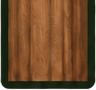
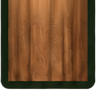
Skil informasjon frå dagknappar i Duldord

diff --git a/duldord/css/tursti.css b/duldord/css/tursti.css
@@ -112,9 +112,24 @@
   top: 10%;
   bottom: -20px;
   width: var(--dd-post-width);
-  background: url('../assets/stolpe-topp.png?v=2') center top / 100% auto no-repeat,
-              url('../assets/stolpe-botn.png?v=2') center bottom / 100% auto no-repeat,
-              url('../assets/stolpe-midt.png?v=2') center 150px / 100% auto repeat-y;
+  background: url('../assets/stolpe-topp.png?v=3') center top / 100% auto no-repeat,
+              url('../assets/stolpe-botn.png?v=3') center bottom / 100% auto no-repeat;
+}
+.dd-header-post::before,
+.dd-step-rail::before {
+  content: '';
+  position: absolute;
+  right: 0;
+  left: 0;
+  background: url('../assets/stolpe-midt.png?v=3') center top / 100% auto repeat-y;
+}
+.dd-header-post::before {
+  top: calc(var(--dd-post-width) * 1.5625);
+  bottom: calc(var(--dd-post-width) * .9375);
+}
+.dd-step-rail::before {
+  top: calc(var(--dd-rail-width) * 1.5625);
+  bottom: calc(var(--dd-rail-width) * .9375);
 }
 .dd-header-post-left { left: calc(var(--dd-sign-height) * .218 - var(--dd-post-width) / 2); }
 .dd-header-post-right { right: calc(var(--dd-sign-height) * .218 - var(--dd-post-width) / 2); }
@@ -173,6 +188,19 @@
   z-index: -1;
   background: url('../assets/informasjonspil.png?v=2') center / contain no-repeat;
 }
+.dd-daydate { padding-left: 30px; }
+.dd-info-mark {
+  position: absolute;
+  left: 12px;
+  display: grid;
+  place-items: center;
+  width: 21px;
+  height: 21px;
+  border: 2px solid #fff9e9;
+  border-radius: 50%;
+  color: #fff9e9;
+  font: 900 .78rem/1 Georgia, serif;
+}
 .dd-next-signpost,
 .dd-previous-signpost {
   position: absolute;
@@ -181,6 +209,8 @@
   width: 175px;
   font-size: .78rem;
   cursor: pointer;
+  filter: drop-shadow(0 4px 0 #142820);
+  transition: filter .12s ease, transform .12s ease;
 }
 .dd-next-signpost {
   left: calc((100% - min(100%, 490px)) / 2 + var(--dd-sign-height) * .218);
@@ -193,10 +223,21 @@
   transform: translateX(50%);
 }
 .dd-previous-signpost::before { transform: scaleX(-1); }
+.dd-nav-arrow {
+  display: grid;
+  place-items: center;
+  width: 22px;
+  height: 22px;
+  margin: 0 5px;
+  border: 2px solid #fff9e9;
+  border-radius: 50%;
+  font: 900 1rem/1 system-ui, sans-serif;
+}
+.dd-next-signpost .dd-nav-arrow { order: 2; }
 .dd-next-signpost[hidden],
 .dd-previous-signpost[hidden] { display: none; }
 .dd-next-signpost:hover,
-.dd-previous-signpost:hover { filter: brightness(1.1); }
+.dd-previous-signpost:hover { filter: brightness(1.12) drop-shadow(0 5px 0 #142820); }
 .dd-next-signpost:active { transform: translateX(-50%) scale(.97); }
 .dd-previous-signpost:active { transform: translateX(50%) scale(.97); }
 .dd-next-signpost:focus-visible,
@@ -258,16 +299,15 @@
   width: fit-content;
   margin: 0 auto;
 }
-.dd-board::before {
-  content: '';
+.dd-step-rail {
+  --dd-rail-width: 13px;
   position: absolute;
   top: 2px;
   bottom: 2px;
   left: -44px;
-  width: 13px;
-  background: url('../assets/stolpe-topp.png?v=2') center top / 100% auto no-repeat,
-              url('../assets/stolpe-botn.png?v=2') center bottom / 100% auto no-repeat,
-              url('../assets/stolpe-midt.png?v=2') center 150px / 100% auto repeat-y;
+  width: var(--dd-rail-width);
+  background: url('../assets/stolpe-topp.png?v=3') center top / 100% auto no-repeat,
+              url('../assets/stolpe-botn.png?v=3') center bottom / 100% auto no-repeat;
 }
 .dd-row { position: relative; }
 .dd-step-sign {
@@ -485,14 +525,15 @@
   .dd-layout { gap: 10px; }
   .dd-board-stage { padding-top: 5px; margin-top: -25px; }
   .dd-day-signpost { left: calc(var(--dd-sign-height) * .218); top: 74%; width: 158px; height: 58px; }
-  .dd-daydate { padding-right: 12px; font-size: .68rem; }
+  .dd-daydate { padding-right: 8px; padding-left: 25px; font-size: .68rem; }
+  .dd-info-mark { left: 9px; width: 17px; height: 17px; font-size: .65rem; }
   .dd-next-signpost,
   .dd-previous-signpost { top: calc(5px + var(--dd-sign-height) + 2px); width: 142px; font-size: .64rem; }
   .dd-next-signpost { padding-right: 12px; }
   .dd-previous-signpost { padding-left: 12px; }
   .dd-board-frame { padding: 25px 6px 12px 39px; border-width: 4px; }
   .dd-board { --dd-size: min(54px, calc((100vw - 105px - 4 * var(--dd-gap)) / 5)); }
-  .dd-board::before { left: -28px; width: 10px; }
+  .dd-step-rail { --dd-rail-width: 10px; left: -28px; }
   .dd-step-sign { right: calc(100% + 8px); width: 29px; height: 19px; font-size: .72rem; }
   .dd-keyboard-frame { padding: 10px 6px; margin-top: 10px; border-width: 4px; }
   .dd-keyrow { gap: 3px; }

diff --git a/duldord/index.html b/duldord/index.html
@@ -9,7 +9,7 @@
     <link rel="apple-touch-icon" href="/_resources/vyrde-ikon-180.png">
 <link rel="stylesheet" href="../css/neobrutalisme.css">
 <link rel="stylesheet" href="css/style.css?v=3">
-<link rel="stylesheet" href="css/tursti.css?v=12">
+<link rel="stylesheet" href="css/tursti.css?v=13">
 <script src="../js/neo-header.js" defer></script>
 </head>
 <body class="dd-page" data-light-theme="classic" data-dark-theme="space" data-theme="classic">
@@ -60,11 +60,11 @@
               </div>
               <span class="dd-daynum" id="dayNum"></span>
             </div>
-            <div class="dd-day-signpost"><span class="dd-daydate" id="dayDate"></span></div>
+            <div class="dd-day-signpost"><span class="dd-daydate" id="dayDate"><span class="dd-info-mark" aria-hidden="true">i</span><span id="dayDateLabel"></span></span></div>
           </div>
         </section>
-        <button class="dd-next-signpost" id="nextDayBtn" type="button" aria-label="Gå éin dag fram" hidden><span>Seinare ord</span></button>
-        <button class="dd-previous-signpost" id="previousDayBtn" type="button" aria-label="Gå éin dag attende" hidden><span>Tidlegare ord</span></button>
+        <button class="dd-next-signpost" id="nextDayBtn" type="button" aria-label="Gå éin dag fram" hidden><span class="dd-nav-arrow" aria-hidden="true">→</span><span>Seinare ord</span></button>
+        <button class="dd-previous-signpost" id="previousDayBtn" type="button" aria-label="Gå éin dag attende" hidden><span class="dd-nav-arrow" aria-hidden="true">←</span><span>Tidlegare ord</span></button>
         <div class="dd-board-frame">
           <div class="dd-board" id="board" role="group" aria-label="Gjettebrett"></div>
         </div>
@@ -134,11 +134,11 @@
 <script src="js/state.js?v=1"></script>
 <script src="js/storage.js?v=1"></script>
 <script src="js/dictionary.js?v=1"></script>
-<script src="js/board.js?v=2"></script>
+<script src="js/board.js?v=3"></script>
 <script src="js/keyboard.js?v=1"></script>
 <script src="js/stats.js?v=1"></script>
 <script src="js/archive.js?v=1"></script>
-<script src="js/game.js?v=5"></script>
+<script src="js/game.js?v=6"></script>
 
 </body>
 </html>

diff --git a/duldord/js/game.js b/duldord/js/game.js
@@ -54,10 +54,10 @@
     const daysAgo = state.todayIndex - state.dayIndex;
     el.dayNum.textContent = `Dag ${state.dayIndex + 1}`;
     el.dayNum.classList.toggle('dd-daynum-archive', !isToday);
-    if (daysAgo === 0) el.dayDate.textContent = 'Dagens ord';
-    else if (daysAgo === 1) el.dayDate.textContent = 'Gårsdagens ord';
-    else if (daysAgo === 2) el.dayDate.textContent = 'Forgårsdagens ord';
-    else el.dayDate.textContent = S.formatDate(S.dateForIndex(state.dayIndex));
+    if (daysAgo === 0) el.dayDateLabel.textContent = 'Dagens ord';
+    else if (daysAgo === 1) el.dayDateLabel.textContent = 'Gårsdagens ord';
+    else if (daysAgo === 2) el.dayDateLabel.textContent = 'Forgårsdagens ord';
+    else el.dayDateLabel.textContent = S.formatDate(S.dateForIndex(state.dayIndex));
     el.previousDayBtn.hidden = state.dayIndex <= 0;
     const latestAvailableIndex = Math.min(state.todayIndex, S.wordCount() - 1);
     el.nextDayBtn.hidden = state.dayIndex >= latestAvailableIndex;
@@ -199,7 +199,7 @@
 
   // ── oppstart ─────────────────────────────────────────────────────────────
   function cacheElements() {
-    ['hero', 'dayNum', 'dayDate', 'nextDayBtn', 'previousDayBtn', 'message', 'board', 'keyboard', 'footnote',
+    ['hero', 'dayNum', 'dayDate', 'dayDateLabel', 'nextDayBtn', 'previousDayBtn', 'message', 'board', 'keyboard', 'footnote',
       'archiveBtn', 'statsBtn', 'helpBtn', 'shareBtn', 'shareLabel', 'shareWrap',
       'archiveGrid', 'helpOverlay', 'statsOverlay', 'archiveOverlay']
       .forEach(id => { el[id] = document.getElementById(id); });

diff --git a/duldord/js/board.js b/duldord/js/board.js
@@ -14,6 +14,11 @@
     boardEl.textContent = '';
     rows.length = 0;
 
+    const stepRail = document.createElement('span');
+    stepRail.className = 'dd-step-rail';
+    stepRail.setAttribute('aria-hidden', 'true');
+    boardEl.appendChild(stepRail);
+
     for (let r = 0; r < MAX_GUESSES; r++) {
       const row = document.createElement('div');
       row.className = 'dd-row';

diff --git a/CHANGELOG.md b/CHANGELOG.md
@@ -8,7 +8,7 @@ Format: [Keep a Changelog](https://keepachangelog.com/), datoar i ISO 8601.
 ### Endra
 - **Duldord har fått ei ny turstidrakt.** Eit lokalt lagra skogsbilete, heile treplankar med spikrar over stolpane, treskilt som kan vekse i breidda og høgda, biletlaga piler for dag og steg, og mjukt avrunda spelruter og tastar gjer ordspelet til ein liten tur gjennom seks freistnader. Bokstavrutene og tastane er utan slagskugge. Utforminga tilpassar seg både mobil og brei skjerm, og spel, arkiv og statistikk fungerer som før.
 - **Skilta er skjerpa og samla rundt spelebrettet.** Eit kortare og høgare hovudskilt står på to stolpar bak ramma, med dagnummeret på same planke. Dagens ord peikar svakt nedover på ei spikarfri trepil med stolpe bak ramma. Stegpilene held original proporsjon, og infoskiltet har tynnare omriss utan unødig overskrift. Arkiv, statistikk og hjelp ligg på infoskiltet. Dei vanlege boksane har ikkje lenger tjukk slagskugge.
-- **Dagsskifta har fått eigne vegvisarar.** Biletgenererte, saumlaust repeterbare trestolpar går att både bak toppskiltet og langs talpilene. Dagsskiltet står midt på venstre stolpe og viser dagens ord, gårsdagens ord, forgårsdagens ord eller dato. «Tidlegare ord» og «Seinare ord» står midt på kvar sin stolpe og flyttar éin dag om gongen. Det opphavlege Duldord-ikonet er tilbake på toppskiltet.
+- **Dagsskifta har fått eigne vegvisarar.** Biletgenererte trestolpar går att både bak toppskiltet og langs talpilene, med gjennomsiktige hjørne og saumlaus ved mellom topp, midt og botn. Dagsskiltet står midt på venstre stolpe og viser dagens ord, gårsdagens ord, forgårsdagens ord eller dato. Eit info-merke skil dette skiltet frå dei opphøgde knappeskilta «Tidlegare ord» og «Seinare ord», som har retningspil og flyttar éin dag om gongen. Det opphavlege Duldord-ikonet er tilbake på toppskiltet.
 - **Hjelpa opnar seg når spelaren ber om henne.** Den korte forklaringa står no på velkomstskiltet, medan utførleg hjelp framleis finst på hjelpeknappen.
 
 ## [1.54] — 2026-09-18
